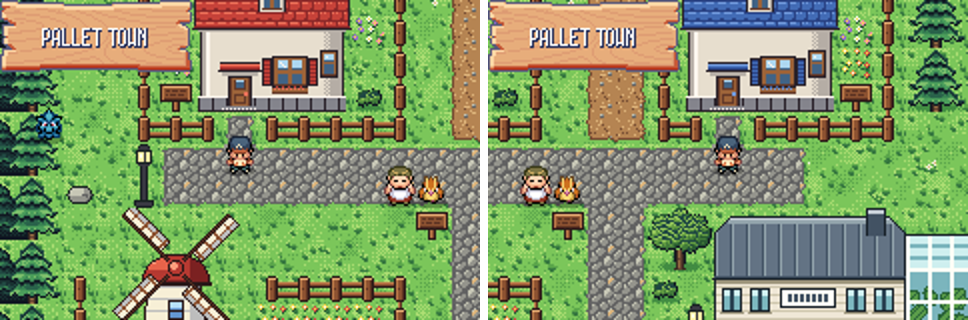
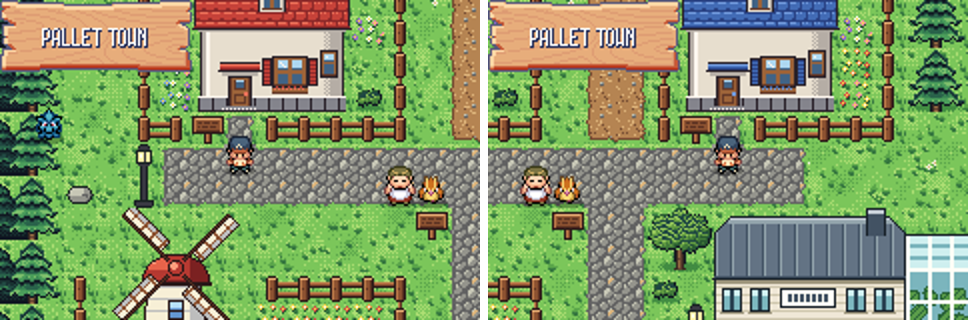
Concept Pallet: house signs you can read
Both house signs stood in a yard corner closed off by the fence, the house
and a bush, so nobody could reach them. They now stand in the fence beside
each gate, read from the road; flowers take the corners.

Replay tests: pallet house sign, pallet rival house sign.

Claude-Session: https://claude.ai/code/session_01XMJF17U18XtbfGGgKpeJmb

Changed region(s): [[0.155, 0.25, 0.2479, 0.4688], [0.6818, 0.3438, 0.7438, 0.4688], [0.8678, 0.25, 0.8988, 0.375]]

diff --git a/project/art/pallet-concept/make_art.py b/project/art/pallet-concept/make_art.py
@@ -674,8 +674,10 @@ def layout() -> tuple[list[list[str]], dict]:
         put("o", x, y)
     for x, y in ((3, 6), (13, 4), (21, 9), (24, 9), (2, 3), (9, 25), (14, 24), (6, 25)):
         put(",", x, y)
-    # signs (bg events)
-    signs = {"PlayersHouseSign": (5, 7), "RivalsHouseSign": (22, 7), "OaksLabSign": (19, 16),
+    for x, y in ((5, 7), (22, 7)):  # flowers in the yards' corners
+        put("*", x, y)
+    # signs (bg events); the houses' stand in the fence beside the gate, read from the road
+    signs = {"PlayersHouseSign": (6, 8), "RivalsHouseSign": (17, 8), "OaksLabSign": (19, 16),
              "TownSign": (13, 11), "TrainerTips": (10, 20)}
     for x, y in signs.values():
         put("S", x, y)

diff --git a/project/art/pallet-concept/README.md b/project/art/pallet-concept/README.md
@@ -46,4 +46,5 @@ The game's time of day tints these screenshots.
 ![Surfing to Route 21](in_game_surf_to_route21.png)
 
 Replay tests: `pallet north to route 1`, `pallet route 1 looks at pallet`, `pallet house door`, `pallet rival house door`,
+`pallet house sign`, `pallet rival house sign`,
 `pallet lab door`, `pallet oak stops you`, `pallet surf to route 21`.
